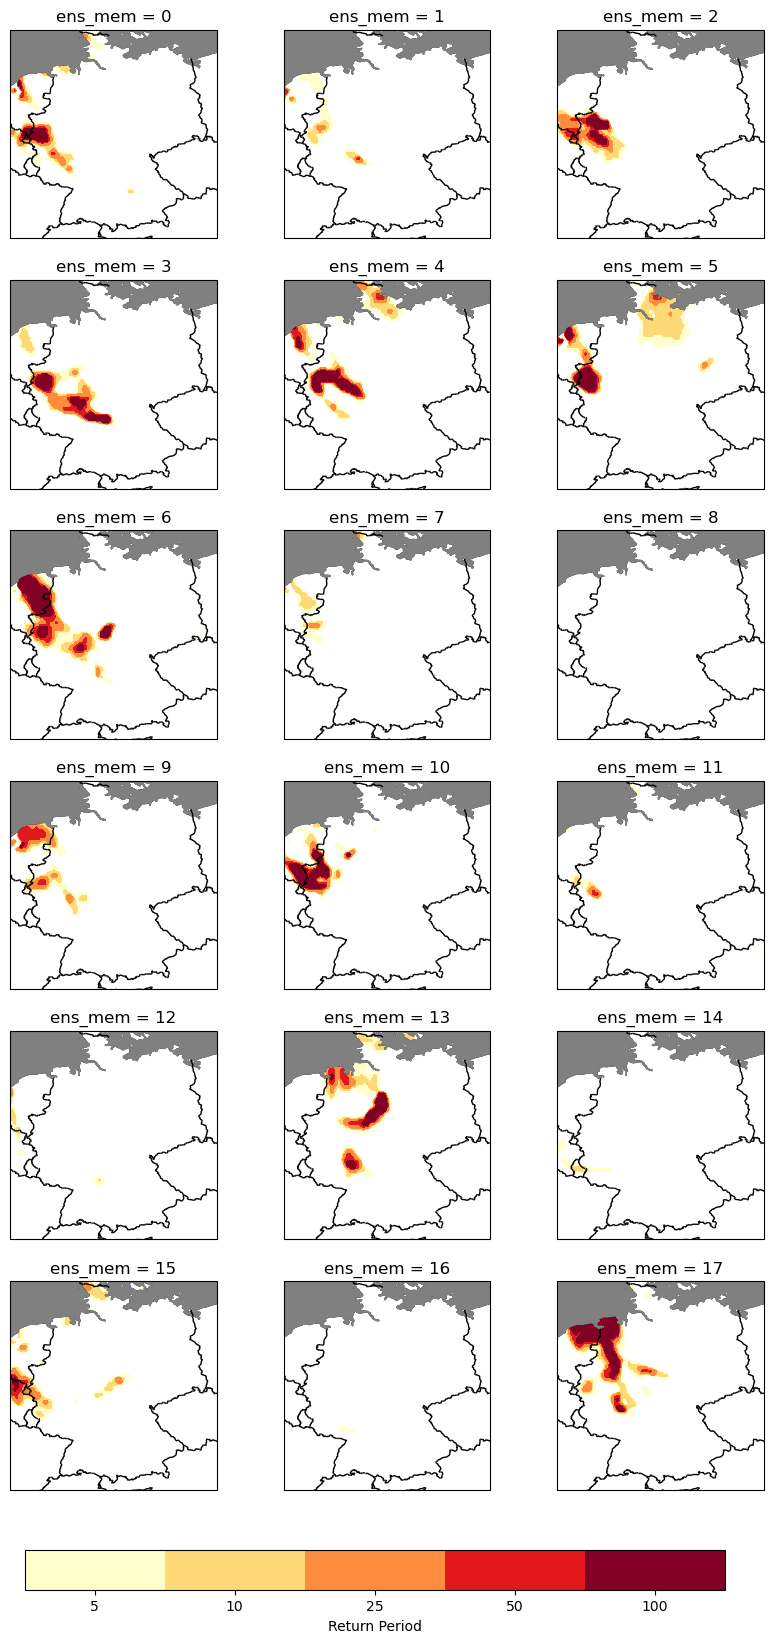
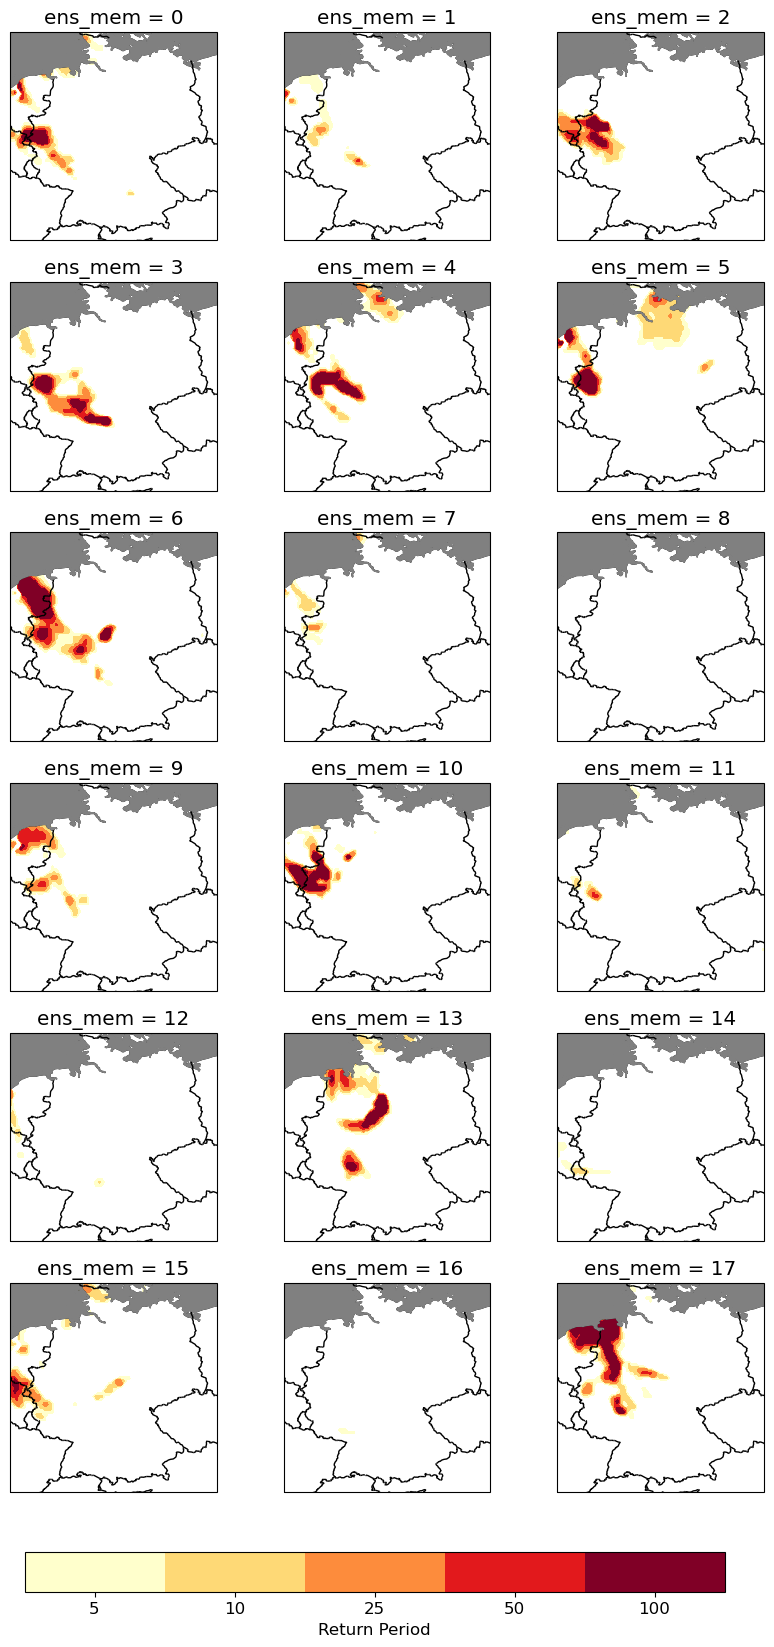
Slight changes to plotscripts, new plot for comparison of RPs added

diff --git a/Code/visualisation/Check return periods.py b/Code/visualisation/Check return periods.py
@@ -17,11 +17,60 @@ from scipy.stats import genextreme
 # %% set font size
 matplotlib.rcParams.update({'font.size': 12})
 
+
 # %% def plot function
 
+def plot_RP(ax, rp, title, c_max, c_min, levels, lat_min, lat_max, lon_min, lon_max):
+    # Set Colorbar
+    cmap = ccm.cm.rain
+
+    # Plot
+    cm = rp.plot.contourf(ax=ax, x='longitude', y='latitude', transform=ccrs.PlateCarree(), vmax=c_max, vmin=c_min,
+                          levels=levels, add_colorbar=False, cmap=cmap, extend='both')
+
+    # Plot Features
+    ax.add_feature(ft.OCEAN, zorder=1, color='grey')
+    ax.add_feature(ft.BORDERS)
+
+    # Set Gridlines
+    gl = ax.gridlines(crs=ccrs.PlateCarree(), draw_labels=True, linewidth=1, color='k', alpha=0.5, linestyle='--')
+    gl.top_labels = False
+    gl.right_labels = False
+    ax.set_extent([lon_min, lon_max, lat_min, lat_max], crs=ccrs.PlateCarree())
+
+    ax.set_title(title)
+
+    return cm, gl
+
+
+def plot_difference(ax, GPM_rp, ERA_rp, title, lat_min, lat_max, lon_min, lon_max):
+    # calculate difference
+    diff = np.flip(GPM_rp.values.T, axis=0) - ERA_rp.values
+    lat, lon = np.meshgrid(ERA_rp.latitude.values, ERA_rp.longitude.values)
+
+    # set cmap
+    levels = np.arange(-100, 120, 20)
+    cmap = 'coolwarm'
+
+    # Plot
+    cl = ax.contourf(lon, lat, diff.T, transform=ccrs.PlateCarree(), levels=levels, cmap=cmap, extend='max')
+
+    # Plot Features
+    ax.add_feature(ft.OCEAN, zorder=1, color='grey')
+    ax.add_feature(ft.BORDERS)
+
+    # Set grid
+    gl = ax.gridlines(crs=ccrs.PlateCarree(), draw_labels=True, linewidth=1, color='k', alpha=0.5, linestyle='--')
+    gl.top_labels = False
+    gl.right_labels = False
+    ax.set_extent([lon_min, lon_max, lat_min, lat_max], crs=ccrs.PlateCarree())
+
+    ax.set_title(title)
+
+    return cl, gl
+
+
 def plot_ERA_GPM(ERA_rp, GPM_rp, rp, c_max, c_min, levels, land, lat_min, lat_max, lon_min, lon_max):
-
-
     # Set Colorbar
     cmap = ccm.cm.rain
 
@@ -32,9 +81,10 @@ def plot_ERA_GPM(ERA_rp, GPM_rp, rp, c_max, c_min, levels, land, lat_min, lat_ma
     axes[1].add_feature(ft.BORDERS)
     axes[0].add_feature(ft.BORDERS)
     GPM_rp.precipitationCal.plot.contourf(ax=axes[0], x='longitude', y='latitude', transform=ccrs.PlateCarree(),
-                                            vmax=c_max, vmin=c_min, levels=levels, add_colorbar=False, cmap=cmap, extend='both')
+                                          vmax=c_max, vmin=c_min, levels=levels, add_colorbar=False, cmap=cmap,
+                                          extend='both')
     cm = ERA_rp.plot.contourf(ax=axes[1], transform=ccrs.PlateCarree(), vmax=c_max, vmin=c_min, levels=levels,
-                                        add_colorbar=False, cmap=cmap, extend='both')
+                              add_colorbar=False, cmap=cmap, extend='both')
 
     # Add Grid and Labels
     for ax in axes:
@@ -55,13 +105,13 @@ def plot_ERA_GPM(ERA_rp, GPM_rp, rp, c_max, c_min, levels, land, lat_min, lat_ma
     axes[1].set_title('ERA5')
 
     # Save and show
-    plt.savefig('Plots/'+land+'/'+str(rp)+'yRP_GPM_ERA.png', bbox_inches='tight')
+    plt.savefig('Plots/' + land + '/' + str(rp) + 'yRP_GPM_ERA.png', bbox_inches='tight')
     plt.show()
 
-def read_GPM(rp, land):
 
+def read_GPM(rp, land):
     # read GMP and ERA5 data
-    GPM = xr.open_dataset('Data/GPM/'+land+'/GPM_'+land+'_rp'+str(rp)+'.nc4')
+    GPM = xr.open_dataset('Data/GPM/' + land + '/GPM_' + land + '_rp' + str(rp) + '.nc4')
 
     # Drop unnecessary dim from GPM rp
     GPM = GPM.sel(return_period=rp)
@@ -70,7 +120,8 @@ def read_GPM(rp, land):
 
     return GPM
 
-# %% Plot ERA5 and GPM data for all rps
+
+# %% Read ERA5 and GPM data
 
 GPM = xr.open_dataset('Data/GPM/GPM_climatology_2000_2021.nc4')
 rps = [5, 10, 25]
@@ -83,13 +134,12 @@ ERA_GER = {}
 for rp in rps:
     # UK
     GPM_UK[str(rp)] = read_GPM(rp, 'UK')
-    ERA_UK[str(rp)] = xr.open_dataset('Data/ERA/UK/ERA_UK_rp'+str(rp)+'.nc4')['r'+str(rp)+'yrrp']
+    ERA_UK[str(rp)] = xr.open_dataset('Data/ERA/UK/ERA_UK_rp' + str(rp) + '.nc4')['r' + str(rp) + 'yrrp']
     # GER
     GPM_GER[str(rp)] = read_GPM(rp, 'GER')
-    ERA_GER[str(rp)] = xr.open_dataset('Data/ERA/GER/ERA_GER_rp'+str(rp)+'.nc4')['r'+str(rp)+'yrrp']
+    ERA_GER[str(rp)] = xr.open_dataset('Data/ERA/GER/ERA_GER_rp' + str(rp) + '.nc4')['r' + str(rp) + 'yrrp']
 
-#%% Plot GPM and ERA5 data
-
+#%% Plot GPM and ERA5 data for all rps
 for rp in rps:
     # UK
     plot_ERA_GPM(ERA_UK[str(rp)], GPM_UK[str(rp)], rp, c_min=20, c_max=180, levels=21, land='UK',
@@ -98,7 +148,44 @@ for rp in rps:
     plot_ERA_GPM(ERA_GER[str(rp)], GPM_GER[str(rp)], rp, c_min=20, c_max=180, levels=21, land='GER',
                  lon_min=5, lon_max=15.5, lat_min=47, lat_max=55)
 
+# %% Plot return periods and difference
 
+# set rp
+rp = '25'
+
+# Setup figure and initialize arrays
+fig, axes = plt.subplots(2, 3, figsize=(10, 8), sharey='row', subplot_kw={'projection': ccrs.Miller()})
+cms = np.empty(axes.shape).tolist()
+gls = np.empty(axes.shape).tolist()
+
+# Plot UK
+cms[0][0], gls[0][0] = plot_RP(axes[0, 0], ERA_UK[rp], title='EPI', c_min=20, c_max=180, levels=21, lon_min=-11,
+                               lon_max=2, lat_min=49.5, lat_max=60)
+cms[0][1], gls[0][1] = plot_RP(axes[0, 1], GPM_UK[rp].precipitationCal, title='GPM', c_min=20, c_max=180, levels=21,
+                               lon_min=-11, lon_max=2, lat_min=49.5, lat_max=60)
+gls[0][1].left_labels = False
+cms[0][2], gls[0][2] = plot_difference(axes[0, 2], GPM_UK[rp].precipitationCal, ERA_UK[rp], title='GPM - EPA',
+                                       lon_min=-11, lon_max=2, lat_min=49.5, lat_max=60)
+gls[0][2].left_labels = False
+
+# Plot GER
+cms[1][0], gls[1][0] = plot_RP(axes[1, 0], ERA_GER[rp], title='EPI', c_min=20, c_max=180, levels=21, lon_min=5, lon_max=15.5,
+                               lat_min=47, lat_max=55)
+cms[1][1], gls[1][1] = plot_RP(axes[1, 1], GPM_GER[rp].precipitationCal, title='GPM', c_min=20, c_max=180, levels=21,
+                               lon_min=5, lon_max=15.5, lat_min=47, lat_max=55)
+gls[1][1].left_labels = False
+cms[1][2], gls[1][2] = plot_difference(axes[1, 2], GPM_GER[rp].precipitationCal, ERA_GER[rp], title='GPM - EPI',
+                                       lon_min=5, lon_max=15.5, lat_min=47, lat_max=55)
+gls[1][2].left_labels = False
+
+# Add colorbars
+fig.subplots_adjust(bottom=0.16)
+cbar_ax1 = fig.add_axes([0.13, 0.1, 0.5, 0.04])
+cbar_ax2 = fig.add_axes([0.68, 0.1, 0.2, 0.04])
+fig.colorbar(cms[0][0], cax=cbar_ax1, orientation='horizontal', pad=0.01, label='Daily Precipitation [mm]')
+fig.colorbar(cms[0][2], cax=cbar_ax2, orientation='horizontal', pad=0.01, label='Daily Precipitation [mm]')
+plt.savefig('Plots/Comparison_rp' + rp +'.png', bbox_inches='tight')
+plt.show()
 
 
 # %% Plot difference
@@ -112,7 +199,7 @@ lat, lon = np.meshgrid(ERA_rp10.latitude.values, ERA_rp10.longitude.values)
 
 # norm for colorbar
 divnorm = colors.TwoSlopeNorm(vmin=-20., vcenter=0, vmax=120)
-levels=np.arange(-100, 120, 20)
+levels = np.arange(-100, 120, 20)
 # Plot
 fig, ax = plt.subplots(subplot_kw={'projection': ccrs.PlateCarree()}, figsize=(7, 4))
 ax.add_feature(ft.OCEAN, zorder=1, color='grey')
@@ -129,13 +216,13 @@ ax.plot(-4.95, 56.45, marker='o', markersize=2, color='lime')
 plt.savefig('Plots/GPM-ERA_rp10.png', bbox_inches='tight')
 plt.show()
 
-#%% get  timeseries of plotted point in GPM and estimates for rp
+# %% get  timeseries of plotted point in GPM and estimates for rp
 
 GPM_point = GPM.sel(lon=-4.95, lat=56.45, method='nearest')
 GPM_rp10_point = GPM_rp10.sel(longitude=-4.95, latitude=56.45, method='nearest')
 ERA_rp10_point = ERA_rp10.sel(longitude=-4.95, latitude=56.45, method='nearest')
 
-#%% plot timeseries of GPM data with annual maxima
+# %% plot timeseries of GPM data with annual maxima
 
 # Calculate annual maxima
 sub = select_resample_op(GPM_point.precipitationCal, op='max', freq='Y')

diff --git a/Code/visualisation/Plot_prob_of_exceedance.py b/Code/visualisation/Plot_prob_of_exceedance.py
@@ -7,12 +7,18 @@ import matplotlib.pyplot as plt
 
 #  define functions
 
-def Read_ensemble(land, dataset):
-    Ens = xr.open_mfdataset('Data/' + dataset + '/' + land + '/RP_output/*.nc', combine='nested',
+def Read_ensemble_GER(dataset):
+    Ens = xr.open_mfdataset('Data/' + dataset + '/GER/RP_output/*.nc', combine='nested',
                             concat_dim=['ens_mem'])
     Ens = Ens.assign_coords({'ens_mem': np.arange(0, 18)})
     return Ens
 
+def Read_ensemble_UK(dataset, event):
+    Ens = xr.open_mfdataset('Data/' + dataset + '/UK/' + event + '/*.nc', combine='nested',
+                            concat_dim=['ens_mem'])
+    Ens = Ens.assign_coords({'ens_mem': np.arange(0, 18)})
+    Ens = Ens.rename({'unknown': 'return_period'})
+    return Ens
 
 def Calculate_exc_prob(Ens, rp):
     # Calculate probability of exceedance
@@ -56,9 +62,13 @@ def Plot_number_of_members(Num, ax, title, lon_min=5, lon_max=15.5, lat_min=47, 
     return cm
 
 
-def Plot_exc_prob_GPM(land, lon_min=5, lon_max=15.5, lat_min=47, lat_max=55):
+def Plot_exc_prob_GPM(land, event=None, lon_min=5, lon_max=15.5, lat_min=47, lat_max=55):
     # Read data
-    GPM_ens = Read_ensemble(land, dataset='GPM')
+    if land == 'GER':
+        GPM_ens = Read_ensemble_GER('ERA')
+
+    if land == 'UK':
+        GPM_ens = Read_ensemble_UK('ERA', event)
 
     # Calculate Prob of Exceedance
 
@@ -80,9 +90,13 @@ def Plot_exc_prob_GPM(land, lon_min=5, lon_max=15.5, lat_min=47, lat_max=55):
     plt.savefig('Plots/' + land + '/casestudy/GPM_ex_prob.png', bbox_inches='tight')
 
 
-def Plot_num_memb_GPM(land, lon_min=5, lon_max=15.5, lat_min=47, lat_max=55):
+def Plot_num_memb_GPM(land, event=None, lon_min=5, lon_max=15.5, lat_min=47, lat_max=55):
     # Read data
-    GPM_ens = Read_ensemble(land, dataset='GPM')
+    if land == 'GER':
+        GPM_ens = Read_ensemble_GER('ERA')
+
+    if land == 'UK':
+        GPM_ens = Read_ensemble_UK('ERA', event)
 
     # Calculate Prob of Exceedance
 
@@ -105,9 +119,13 @@ def Plot_num_memb_GPM(land, lon_min=5, lon_max=15.5, lat_min=47, lat_max=55):
     plt.savefig('Plots/' + land + '/casestudy/GPM_num_members.png', bbox_inches='tight')
 
 
-def Plot_exc_prob_ERA(land, lon_min=5, lon_max=15.5, lat_min=47, lat_max=55):
+def Plot_exc_prob_ERA(land, event=None, lon_min=5, lon_max=15.5, lat_min=47, lat_max=55):
     # Read data
-    ERA_ens = Read_ensemble(land, dataset='ERA')
+    if land == 'GER':
+        ERA_ens = Read_ensemble_GER('ERA')
+
+    if land == 'UK':
+        ERA_ens = Read_ensemble_UK('ERA', event)
 
     # Calculate Prob of Exceedance
 
@@ -132,9 +150,13 @@ def Plot_exc_prob_ERA(land, lon_min=5, lon_max=15.5, lat_min=47, lat_max=55):
     plt.savefig('Plots/' + land + '/casestudy/ERA_ex_prob.png', bbox_inches='tight')
 
 
-def Plot_num_memb_ERA(land, lon_min=5, lon_max=15.5, lat_min=47, lat_max=55):
+def Plot_num_memb_ERA(land, event=None,  lon_min=5, lon_max=15.5, lat_min=47, lat_max=55):
     # Read data
-    ERA_ens = Read_ensemble(land, dataset='ERA')
+    if land == 'GER':
+        ERA_ens = Read_ensemble_GER('ERA')
+
+    if land == 'UK':
+        ERA_ens = Read_ensemble_UK('ERA', event)
 
     # Calculate Prob of Exceedance
 

diff --git a/Code/visualisation/Plot_ensemble_members.py b/Code/visualisation/Plot_ensemble_members.py
@@ -3,11 +3,16 @@ import cartopy.crs as ccrs
 from cartopy import feature
 import numpy as np
 import matplotlib.pyplot as plt
-from Code.visualisation.Plot_prob_of_exceedance import Read_ensemble
+from Code.visualisation.Plot_prob_of_exceedance import Read_ensemble_GER, Read_ensemble_UK
+from matplotlib.colors import LinearSegmentedColormap
 
-def Plot_ensemble_ERA(land, lon_min=5, lon_max=15.5, lat_min=47, lat_max=55):
 
-    Ens = Read_ensemble(land, 'ERA')
+def Plot_ensemble_ERA(land, event=None, lon_min=5, lon_max=15.5, lat_min=47, lat_max=55):
+    if land == 'GER':
+        Ens = Read_ensemble_GER('ERA')
+
+    if land == 'UK':
+        Ens = Read_ensemble_UK('ERA', event)
 
     fig, axes = plt.subplots(6, 3, figsize=(10, 20), subplot_kw={'projection': ccrs.Miller()})
 
@@ -26,18 +31,28 @@ def Plot_ensemble_ERA(land, lon_min=5, lon_max=15.5, lat_min=47, lat_max=55):
     cbar_ax = fig.add_axes([0.15, 0.1, 0.7, 0.02])
     c_bar = fig.colorbar(cm, cax=cbar_ax, orientation='horizontal', pad=0.01, label='Return Period')
     c_bar.set_ticks([5, 10, 25, 50, 100])
-    plt.savefig('Plots/' + land + '/casestudy/ERA_members.png', bbox_inches='tight')
 
-def Plot_ensemble_GPM(land, lon_min=5, lon_max=15.5, lat_min=47, lat_max=55):
+    if event:
+        plt.savefig('Plots/' + land + '/casestudy/ERA_members' + event + '.png', bbox_inches='tight')
+    else:
+        plt.savefig('Plots/' + land + '/casestudy/ERA_members.png', bbox_inches='tight')
 
-    Ens = Read_ensemble(land, 'GPM')
+
+def Plot_ensemble_GPM(land, event=None, lon_min=5, lon_max=15.5, lat_min=47, lat_max=55):
+    if land == 'GER':
+        Ens = Read_ensemble_GER('GPM')
+
+    if land == 'UK':
+        Ens = Read_ensemble_UK('GPM', event)
 
     fig, axes = plt.subplots(6, 3, figsize=(10, 20), subplot_kw={'projection': ccrs.Miller()})
 
     levels = [2.5, 7.5, 12.5, 37.5]
+    colors = [(255, 255, 204), (254, 217, 118), (253, 140, 60)]
+    cmap = LinearSegmentedColormap.from_list('GPM', colors)
     for i in range(18):
         ax = axes.flatten()[i]
-        cm = Ens.sel(ens_mem=i).return_period.plot.contourf(ax=ax, levels=levels, cmap='YlOrRd',
+        cm = Ens.sel(ens_mem=i).return_period.plot.contourf(ax=ax, levels=levels, cmap=cmap,
                                                             transform=ccrs.PlateCarree(), add_colorbar=False,
                                                             vmin=5, vmax=25, extend='neither')
         ax.coastlines()
@@ -50,13 +65,16 @@ def Plot_ensemble_GPM(land, lon_min=5, lon_max=15.5, lat_min=47, lat_max=55):
     c_bar = fig.colorbar(cm, cax=cbar_ax, orientation='horizontal', pad=0.01, label='Return Period')
     c_bar.set_ticks([5, 10, 25])
 
+    if event:
+        plt.savefig('Plots/' + land + '/casestudy/GPM_members' + event + '.png', bbox_inches='tight')
+    else:
+        plt.savefig('Plots/' + land + '/casestudy/GPM_members.png', bbox_inches='tight')
 
 
-    plt.savefig('Plots/' + land + '/casestudy/GMP_members.png', bbox_inches='tight')
-
-#%%
+# %%
 
 if __name__ == '__main__':
     Plot_ensemble_ERA('GER')
     Plot_ensemble_GPM('GER')
+
     plt.show()
